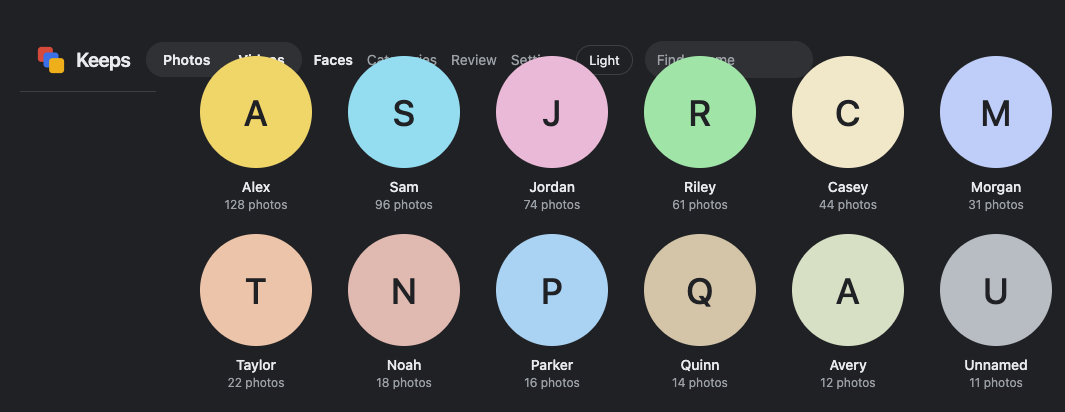
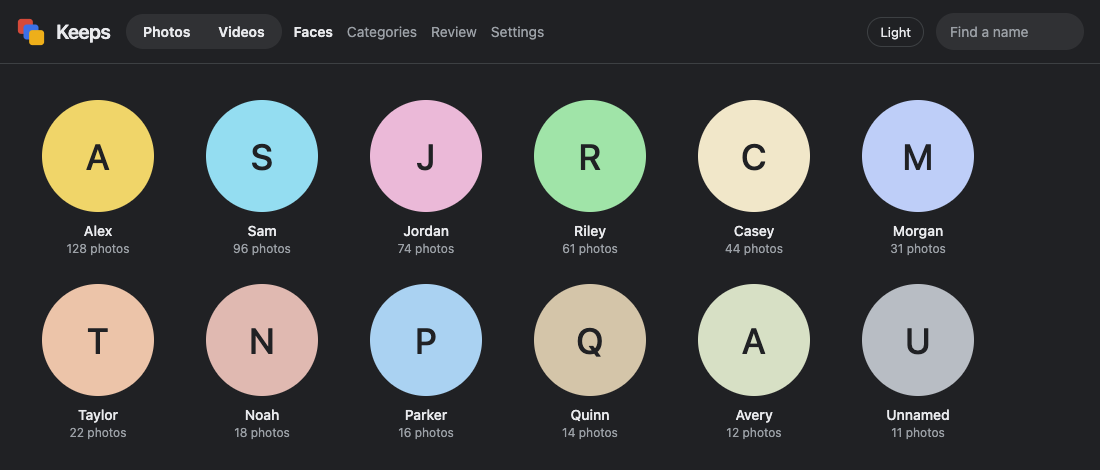
Replace the Faces README shot that sat on the header.

diff --git a/gallery/test_name.py b/gallery/test_name.py
@@ -29,6 +29,8 @@ class NameTests(unittest.TestCase):
         context = (ROOT / "docs" / "context.md").read_text()
         server = (ROOT / "gallery" / "server.py").read_text()
         self.assertTrue(readme.startswith("# Keeps\n"))
+        for name in ("home.png", "faces.png", "settings.png"):
+            self.assertIn(f"docs/images/{name}", readme)
         self.assertIn("https://github.com/AlmutazYounes/keeps", context)
         self.assertIn("Keeps/1.0 (personal photo library)", server)
         self.assertNotIn("local-photos", context)

diff --git a/README.md b/README.md
@@ -1,28 +1,48 @@
 # Keeps
 
-Keeps is a private gallery for a Google Photos takeout. Photos already live in `Photos/YYYY/MM-Month/`. The site runs on your machine at http://127.0.0.1:8765.
+A private gallery for a Google Photos takeout. Photos stay in `Photos/` on your machine. The site runs at http://127.0.0.1:8765.
+
+[Run it](#run-it) · [Screenshots](#screenshots) · [Takeout](#download-a-google-takeout) · [Search](#search) · [Faces](#faces) · [Settings](#settings)
+
+## Run it
+
+The server uses only the Python standard library.
+
+```bash
+python3 gallery/server.py
+```
+
+Open http://127.0.0.1:8765. It reads `Photos/` once, when it starts. A file added after that stays invisible until you start the server again.
+
+The scripts look for the library at `/Volumes/SamsungT7/Google Photos Backup`. Change `ROOT` in each script if your copy lives somewhere else.
+
+Keeps uses one dark theme. The choice is saved in the browser.
 
 ## Screenshots
 
-These pictures use colored placeholders. They are not photos from anyone's library.
+Colored placeholders. Not photos from a real library.
 
 ### Home
 
-![Home page of Keeps, with placeholder memories, a day grid, and the date scrubber](docs/images/home.png)
+<img src="docs/images/home.png" width="880" alt="Home page of Keeps, with placeholder memories, a day grid, and the date scrubber">
 
 ### Faces
 
-![Faces page of Keeps, with placeholder people](docs/images/faces.png)
+<img src="docs/images/faces.png" width="880" alt="Faces page of Keeps, with placeholder people">
 
 ### Settings
 
-![Settings page of Keeps, with sample models and sync counts](docs/images/settings.png)
+<img src="docs/images/settings.png" width="880" alt="Settings page of Keeps, with sample models and sync counts">
 
-## What stays off GitHub
+## What you can do
 
-The pictures, the face database, the captions, the thumbnails, and the model weights are not in this repo. `.gitignore` keeps them local.
-
-The scripts look for the library at `/Volumes/SamsungT7/Google Photos Backup`. Change `ROOT` in each script if your copy lives somewhere else.
+- Browse by day, and move through years with the scrubber.
+- Search with a sentence. Keeps reads a person, a date, and photos or videos, then lets you change those filters.
+- Name people. Anyone in fewer than 10 photos stays off the Faces page.
+- Open categories. Places that already have coordinates show on a map.
+- Review photos that look disposable. Nothing is deleted until you choose Delete.
+- Select files, then share them or move them to Trash.
+- Pause, continue, or rewrite a face or description job in Settings.
 
 ## Download a Google Takeout
 
@@ -35,11 +55,11 @@ Do this once, from the Google account that owns the photos.
 5. Create the export as `.zip`. Google splits a large library into several zip files.
 6. Wait for the email, then download every part.
 
-Leave the names Google gives them. They look like `takeout-20260928T120000Z-001.zip`. The sorter only sees files that match `takeout-*.zip`. If a browser renames a download, rename it back.
+Leave the names Google gives them, like `takeout-20260928T120000Z-001.zip`. The sorter only sees files that match `takeout-*.zip`. If a browser renames a download, rename it back.
 
 Put every zip in the library folder, next to `sort_photos.py`. Do not put them inside `Photos/`. Do not unzip them yourself.
 
-## Sort the Takeout
+## Sort the takeout
 
 Run this only for those zip files. Skip it when the photos are already in `Photos/`, and skip it when you add a loose file later.
 
@@ -52,20 +72,6 @@ python3 sort_photos.py
 It reads the date from the Takeout metadata, then the file name, then the file itself. It copies each photo into `Photos/YYYY/MM-Month/`. Album copies of the same photo are kept once. The original bytes are not edited.
 
 When the copy finishes, you are done with this script.
-
-## Gallery
-
-The server uses only the Python standard library.
-
-```bash
-python3 gallery/server.py
-```
-
-Open http://127.0.0.1:8765. It reads the folders once, when it starts. A file added after that stays invisible until you start the server again.
-
-Keeps uses one dark theme. The choice is saved in the browser.
-
-Search takes a sentence, and it also has filters you can edit. The Search section below has the query shapes.
 
 ## Search
 
@@ -103,12 +109,10 @@ Places open on a map. The heat shows how many photos were taken in that spot. Cl
 
 ## Faces
 
-Two ONNX files have to sit in `gallery/models/` before the face index will run:
+Two ONNX files have to sit in `gallery/models/` before the face index will run. Those weights are not shipped here.
 
 - `10g_bnkps.onnx` finds faces
 - `arcface_w600k_r50_batch.onnx` turns a face into a vector
-
-Those weights are not shipped here.
 
 ```bash
 python3 -m venv gallery/.venv
@@ -122,7 +126,7 @@ Finished photos stay in the face database. A gallery restart runs this only for 
 
 ## Descriptions
 
-Captions come from Florence-2, the ONNX build at `onnx-community/Florence-2-base-ft` on Hugging Face. Download these into `gallery/models/florence2/`:
+Captions come from Florence-2, the ONNX build at `onnx-community/Florence-2-base-ft` on Hugging Face. Download these into `gallery/models/florence2/`.
 
 - `tokenizer.json`
 - `onnx/vision_encoder_q4f16.onnx`
@@ -137,13 +141,19 @@ gallery/.venv/bin/python gallery/index_captions.py
 
 Each still photo gets a short paragraph. Search uses that text. Finished captions stay in the database. A gallery restart describes only still photos that are missing or whose file time changed. A job that is already walking does not see a file added after it made its list. Restart the gallery after that file is in `Photos/`.
 
+## Settings
+
+Open Settings to pause, continue, or rewrite a database. Pause stops a job, and a paused job stays paused across a restart. Continue picks up what is left. Rewrite clears that database and runs the model again. A face rewrite also clears names you typed.
+
+The model picker chooses the face finder, the face match model, and the description model. A job that is already running keeps the model it started with.
+
 ## New photos
 
 Do not run `sort_photos.py` for these. That script is only for a fresh `takeout-*.zip`.
 
 Face results and descriptions are saved in their databases. Stopping the gallery does not erase them, and starting it again does not repeat finished photos.
 
-On startup the server compares the folders with those databases. It runs face recognition and descriptions only for still photos that are missing or were changed. A job paused in Settings stays paused. Open Settings to pause, continue, or rewrite a database. Rewrite clears that database and runs the model again. A face rewrite also clears names you typed.
+On startup the server compares the folders with those databases. It runs face recognition and descriptions only for still photos that are missing or were changed. A job paused in Settings stays paused.
 
 1. Put the file under `Photos/`.
 2. Start `gallery/server.py` again.
@@ -151,6 +161,10 @@ On startup the server compares the folders with those databases. It runs face re
 The grid picks up the file from that scan. The two jobs then save the new photo and leave the rest alone.
 
 Videos show in the Videos tab. The face index and the caption index only read still photos.
+
+## What stays off GitHub
+
+The pictures, the face database, the captions, the thumbnails, and the model weights are not in this repo. `.gitignore` keeps them local.
 
 ## For agents
 
